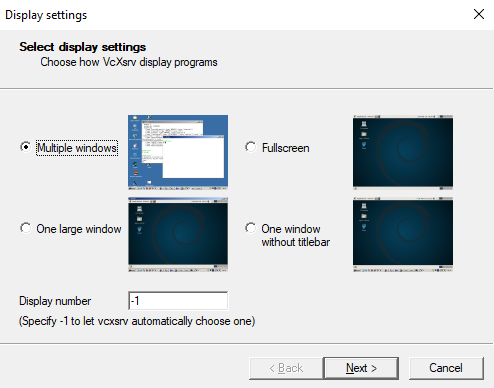
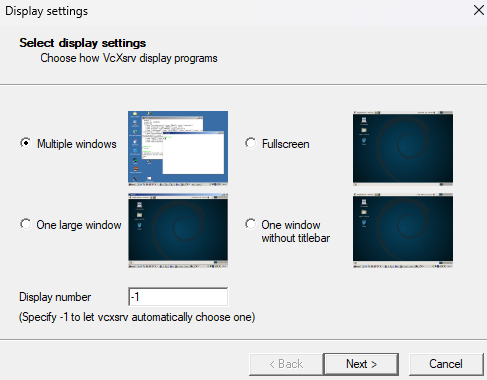
Finished software setup instructions

diff --git a/Software/index.html b/Software/index.html
@@ -43,6 +43,21 @@
 									<header class="main">
 										<h1>Software Environment</h1>
 									</header>
+
+									<p>
+										Since this is a systems programming class that uses networks, we're going to need to setup some pretty complicated software to do the cool things we need to do on the assignments.  Students will follow three steps to get setup:
+									</p>
+									<ol>
+										<li>
+											<a href = "#vscode">Setup the VSCode IDE</a> with all of the features we need for the course
+										</li>
+										<li>
+											Setup development tools for C on either <a href = "#windows">Windows</a> or <a href = "#macos">Mac OS</a>
+										</li>
+										<li>
+											Setup <a href = "#virtualbox">VirtualBox</a> to host a tool we'll use to create a software defined network on our own computer!
+										</li>
+									</ol>
 									
 
 									<h2><a name = "vscode">Step 1: Visual Studio Code</a></h2>
@@ -188,23 +203,30 @@
 												and hit <code>ENTER</code>
 											</li>
 											<li>
-												Next type
+												<p>
+													Next type
 												<script type="syntaxhighlighter" class="brush: cpp"><![CDATA[
 													sudo apt install build-essential gcc g++ cmake valgrind lldb git openssh-server wireshark whois nmap tshark net-tools vim-nox python3 python3-pip firefox flex bison traceroute libnsl-dev mininet]]></script>  
-												and hit <code>ENTER</code>.  This may take a moment
+												and hit <code>ENTER</code>.  This may take a moment.  When you see the following:
+												</p>
+
+												<p>
+													<img src = "wireshark.png" width="60%">
+												</p>
+												<p>
+													Be sure to select <code>Yes</code>
+												</p>
 											</li>
 										</ol>
 										<p>
-											Now you should have everything you need to compile C/C++/assembly programs on your computer!
+											Now you should have everything you need to compile C/C++ programs on your computer, as well as run a whole slew of network tools!
 										</p>
 
 										
 
-										<p>
-											Congratulations, you are now finished!  You may proceed to the <a href = "#virtualbox">virtualbox setup</a>
-										</p>
+										
 
-										<h3><a name = "wslfilepaths">A Note on File Paths under WSL</a></h3>
+										<h4><a name = "wslfilepaths">A Note on File Paths under WSL</a></h4>
 										<p>
 											It's possible to go through the entire class in just the terminal, but you may want to navigate through and organize your files and folders using the ordinary Windows explorer.  Everything under your regular windows filesystem is linked to from a special place in WSL.  For instance, if my username is <code>ctralie</code> and I have a folder named <code>CS174</code> on my Desktop, then I would change into the <code>CS174</code> directory by typing 
 										</p>
@@ -225,12 +247,48 @@
 										</p>
 										<p></p>
 
-
-										<h3><a name = "copypaste">A Note on Copy/Pasting under WSL</a></h3>
+										<h4><a name = "copypaste">A Note on Copy/Pasting under WSL</a></h4>
 
 											<p>
 												Since <code>CTRL+C</code> means something special (kill a running process), copy actually happens with <code>CTRL+SHIFT+C</code>.  Likewise, paste happens with <code>CTRL+SHIFT+V</code>.
 											</p>
+
+										<h3><a name = "x11">Step 3: Setup VcXsrv Windows X11 Server</a></h3>
+										<p>
+											We need to setup an X11 <a href = "https://en.wikipedia.org/wiki/X_Window_System">XWindows</a> client on Windows to receive messages from wireshark running in a virtual host for the more advanced assignments later in the course.  First, <a href = "https://sourceforge.net/projects/vcxsrv/">click here</a> to download VcXsrv.  Then, launch the program <code>XLaunch</code> with the default options:
+										</p>
+
+										<p>
+											<img src = "vcxsrv1.png" width="40%">
+										</p>
+
+										<p>
+											<img src = "vcxsrv2.png" width="40%">
+										</p>
+
+										<h3><a name = "putty">Step 4: Setup PuTTY</a></h3>
+										<p>
+											You'll need to download a special ssh terminal to use wireshark in the virtual image under Windows for more advanced assignments later in the course.  <a href = "https://www.putty.org/">Click here</a> to download PuTTY.  Then, configure PuTTY to connect to your localhost, which we'll use to run wireshark on the <a href = "#virtualbox">virtual image</a>.  First, select <code>127.0.0.1</code> as the host with port <code>3022</code>:
+										</p>
+
+										<img src = "puttyhost.png" width="40%">
+
+										<p>
+											Then, select <code>Enable X11 forwarding</code> after expanding the SSH node in the options tree:
+										</p>
+
+										<img src = "puttyx11.png" width="40%">
+										<p>
+											When you're finished this, you should go back and save your configuration so you don't have to re-enter this information each time.  You'll test to make sure this works after you setup the <a href = "#virtualbox">virtual image</a>
+										</p>
+
+										<HR>
+										
+
+										<p>
+											Congratulations, you are now finished!  You may proceed to the <a href = "#virtualbox">virtualbox setup</a>
+										</p>
+
 
 										<HR>
 										<h2><a name = "macos">Step 2b: Mac OS Software Environment Instructions</a></h2>
@@ -378,6 +436,24 @@
 
 									<HR>
 										<h2><a name = "virtualbox">3. VirtualBox Setup</a></h2>
+
+										<p>
+											Later in the course when we implement parts of the transport layer (TCP) and the network layer (routing), we're going to use a program called <a href = "http://mininet.org/">mininet</a> to create software defined networks with arbitrary topologies on our own machines!  Because setting this up natively in Windows or Mac OS is quite complicated, I'm instead going to have students code on virtual linux images that I setup in the background.  This is the only time students will need to use the <a href = "#remote">remote login tools</a>; otherwise, they can code directly on their own filesystems.
+										</p>
+
+										<p>
+											To get started, download and install VirtualBox at <a href = "https://www.virtualbox.org/">this link</a>, being sure to choose the right platform; for instance, those using M1/M2 macs should choose macOS/Apple Silicon hosts.
+										</p>
+
+										<p>
+											Then, assuming you're on the Ursinus network, visit <a href = "http://nimbus.ursinus.edu/mininet/">http://nimbus.ursinus.edu/mininet/</a> and download and extract the .zip file appropriate for your system; those using M1/M2 macs should download the arm zip file, and those using Windows or intel macs should download the x86 zip file.  <b>You'll need about 10GB free on your machine to use these!</b>
+										</p>
+
+										<p>
+											Once you've downloaded and extracted the file, open VirtualBox and add a new image, navigating to the folder where you extracted the virtual machine:
+										</p>
+
+										<img src = "virtualboxadd.png" width="70%">
 										
 										<p>
 											Now, go to the <code>Network</code> properties of the virtual machine, and make sure the network adapter is attached to <code>NAT</code>:
@@ -404,11 +480,27 @@
 										</p>
 
 										<img src = "sshsave.png" width="60%">
+
+										<p>
+											You can now code on this virtual image using the VSCode IDE!
+										</p>
+
+										<h4>Running Wireshark on The Virtual Image</h4>
+										<p>
+											Now, if you're on Mac, you can launch wireshark by typing
+										</p>
+
+										<p>
+											<code>sudo HOME=~ wireshark &</code>
+										</p>
+
+										<p>
+											If you're on Windows, you'll instead need to launch <a href = "#x11">XLaunch</a> and login using <a href = "#putty">PuTTY</a> and run that command from the PuTTY shell.  But you can still run other non-GUI terminals through VSCode (I was just having trouble getting X11 forwarding working on windows in that context!)
+										</p>
 										
-										https://dev.to/developertharun/easy-way-to-ssh-into-virtualbox-machine-any-os-just-x-steps-5d9i
 
 
-										sudo HOME=~ wireshark
+										
 
 
 
